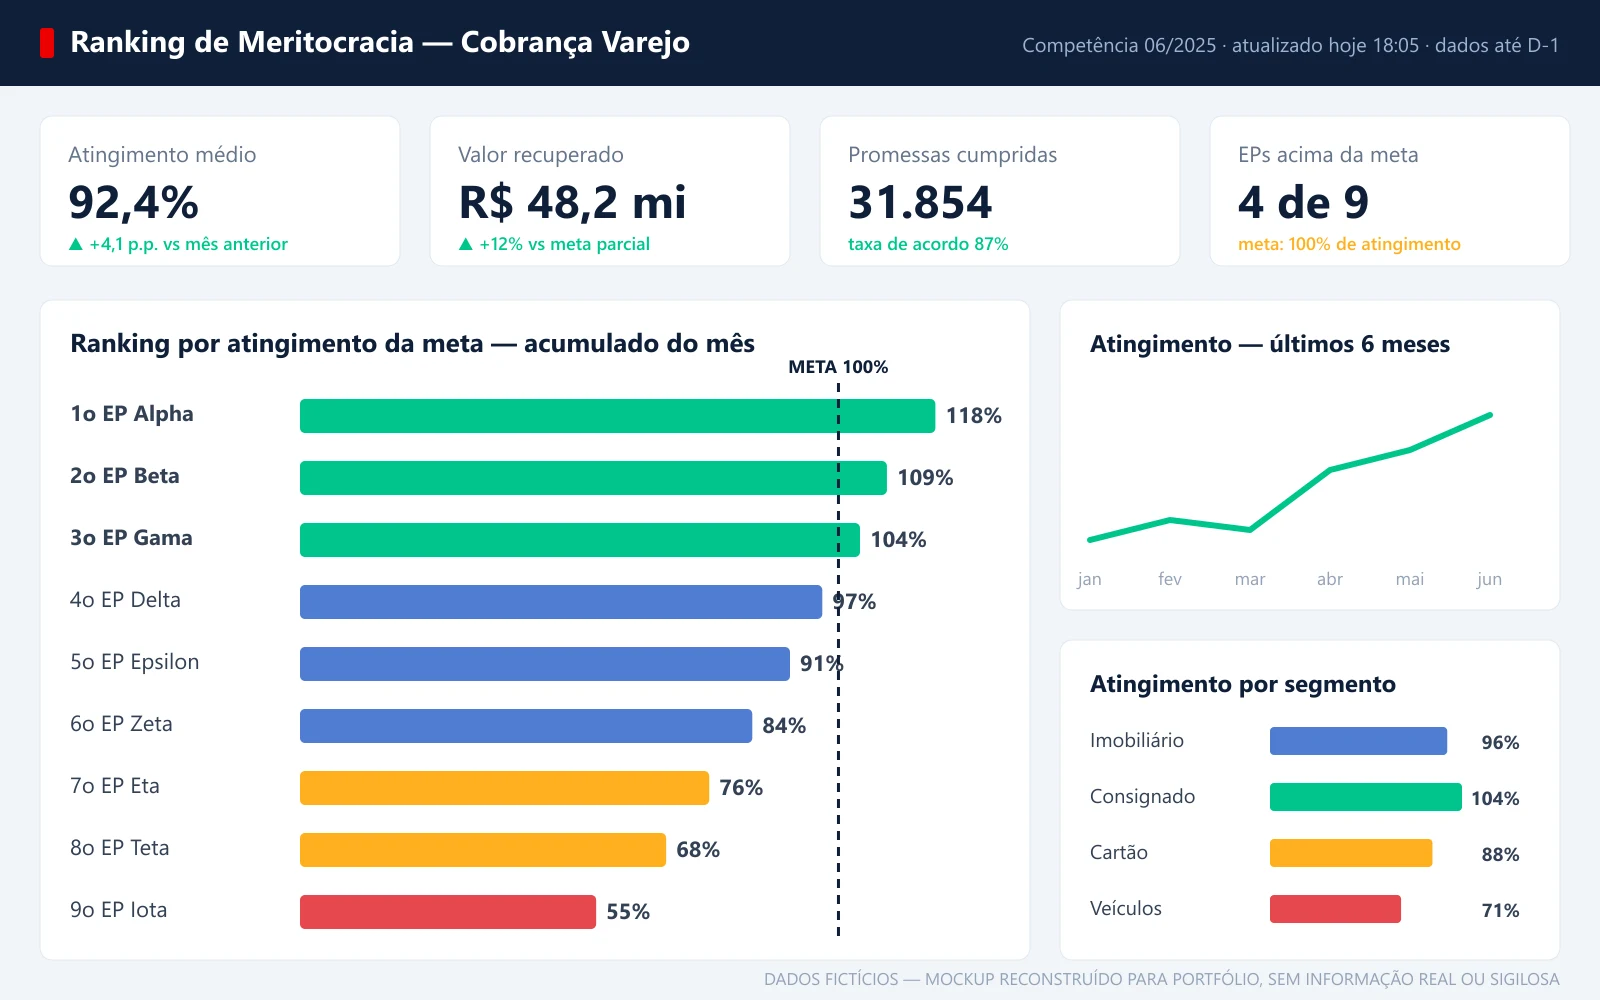
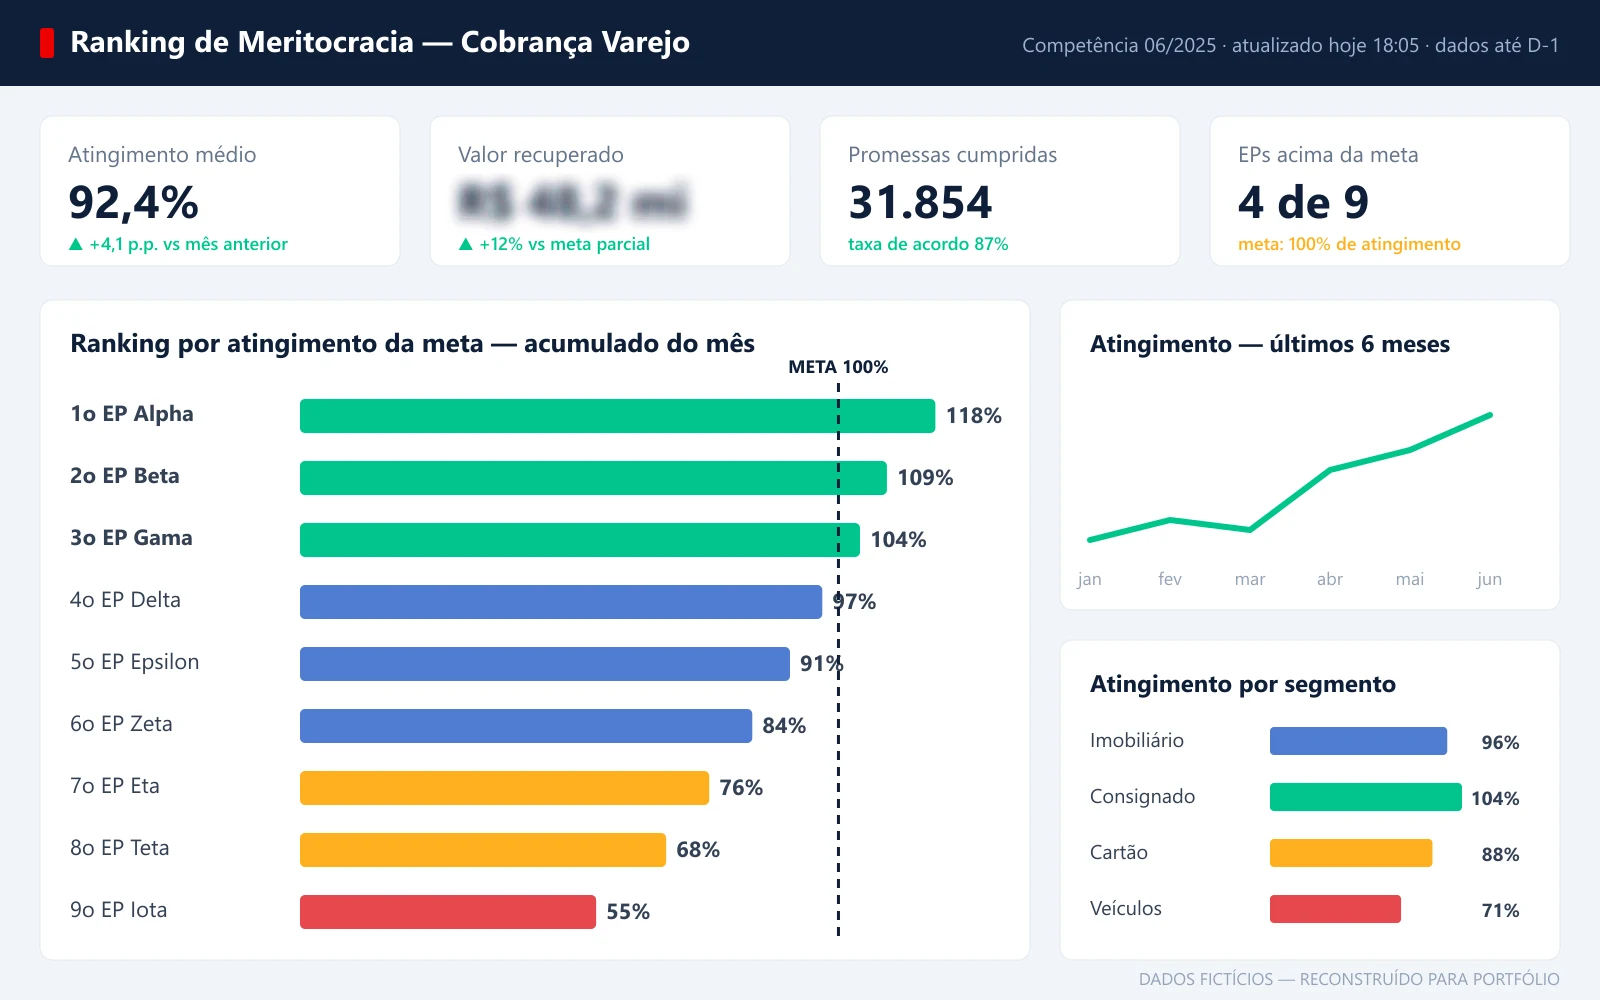
refine: blur monetary values, drop NDA mentions, fix badge layout
Monetary KPI in dashboard mockup now blurred; disclaimers keep fictitious-data
notice without citing NDA; broken pill backgrounds in before/after removed.

Generated with [Devin](https://devin.ai)

Changed region(s): [[0.2812, 0.155, 0.4375, 0.248], [0.5938, 0.961, 0.9688, 0.992], [0.4688, 0.961, 0.5625, 0.992]]

diff --git a/src/translation/languages/pt/pt.ts b/src/translation/languages/pt/pt.ts
@@ -302,7 +302,7 @@ const messages = {
         ranking_case_summary: 'Painel gerencial que define a remuneração variável de 9 empresas de cobrança. Pipeline de dados redesenhado de ponta a ponta: o que saía apenas 2x por semana, com defasagem de até 4 dias, agora é enviado todo dia útil ao final do dia, com resultados acumulados até ontem (D-1) — ciclo completo em ~30 minutos.',
         rank_overview_title: 'Visão geral',
         rank_overview_p1: 'Case do meu trabalho atual como Data Visualization Specialist na MJV, alocado em um grande banco internacional, no setor de recuperação de crédito. Projeto principal há 1 ano: o ranking de meritocracia do call center de cobrança do varejo — o painel cuja posição aumenta ou reduz diretamente a remuneração das 9 empresas parceiras de cobrança (EPs).',
-        rank_overview_p2: 'Por NDA, dados reais, regras de negócio detalhadas e visuais originais não podem ser exibidos. Todas as imagens deste case são reconstruções com dados fictícios.',
+        rank_overview_p2: 'Todos os dados exibidos neste case são fictícios — as imagens são reconstruções criadas exclusivamente para fins de portfólio.',
         rank_context_title: 'O contexto: remuneração em jogo',
         rank_context_p1: 'Na operação de recuperação de crédito do varejo, a cobrança é executada por 9 empresas parceiras. O ranking de meritocracia consolida o atingimento de metas de cada uma — e o resultado não é apenas informativo: ele aumenta ou reduz diretamente a remuneração das empresas. Um ranking atrasado ou incorreto significa cobradores trabalhando às cegas, com rotas e abordagens decididas sem dados.',
         rank_context_p2: 'Quando assumi o projeto, o processo era manual: extração em SAS via SQL, planilhas sumarizadas montadas à mão, envio apenas 2x por semana — terças e quintas, com dados defasados em até 4 dias. As EPs reclamavam com razão: sem o desempenho atualizado, era impossível recalcular abordagens a tempo de fazer diferença no mês.',
@@ -316,9 +316,9 @@ const messages = {
         rank_auto_p1: 'Desenhei sozinho uma automação com Power Automate e Microsoft Fabric, disparada por gatilho de recorrência diária: atualização do painel (~10 min), exportação automática dos PDFs (~7 min) e conferência humana antes do envio pela caixa de correio oficial, ao final do dia. O ciclo inteiro fecha em no máximo 30 minutos — e o que era tarefa manual de parte da equipe virou verificação de qualidade.',
         rank_design_title: 'Design de informação a serviço da decisão',
         rank_design_p1: 'Painel gerencial não é vitrine — é ferramenta de decisão. A hierarquia visual foi desenhada para o teste dos 30 segundos: posição no ranking, distância da meta e tendência são lidos de imediato, com segmentos e detalhes disponíveis em camadas. Conceitos e mockups passam por aprovação com stakeholders antes de qualquer implementação.',
-        rank_mockup_caption: 'Mockup reconstruído com dados 100% fictícios para este portfólio — nenhuma informação real ou sigilosa é exibida.',
+        rank_mockup_caption: 'Mockup reconstruído com dados 100% fictícios, exclusivamente para este portfólio.',
         rank_arch_caption: 'Arquitetura simplificada do pipeline — sem detalhes técnicos internos.',
-        rank_schema_caption: 'Modelo dimensional simplificado — nomes ilustrativos; a estrutura real é confidencial.',
+        rank_schema_caption: 'Representação simplificada e ilustrativa do modelo dimensional.',
         rank_beforeafter_caption: 'Comparativo do processo antes e depois da automação — valores aproximados.',
         rank_ai_title: 'Workflow aumentado por IA',
         rank_ai_p1: 'Uso Devin e GitHub Copilot no dia a dia — por decisão consciente. Delego à IA a implementação de tabelas, ajustes e visuais a partir de prompts e mockups que desenho, e concentro meu tempo no que não dá para delegar: entender o negócio, validar a lógica de apuração, revisar cada saída e construir o storytelling. Ajustes finos de DAX e modelagem seguem manuais quando a regra exige precisão.',

diff --git a/src/translation/languages/en/en.ts b/src/translation/languages/en/en.ts
@@ -303,7 +303,7 @@ const messages = {
         ranking_case_summary: 'Management dashboard that determines the variable compensation of 9 collection companies. End-to-end redesigned data pipeline: what used to ship only twice a week, lagging up to 4 days behind, is now sent every business day at end of day, with results accumulated through yesterday (D-1) — full cycle in ~30 minutes.',
         rank_overview_title: 'Overview',
         rank_overview_p1: 'A case from my current role as Data Visualization Specialist at MJV, embedded at a large international bank in the credit recovery division. Main project for the past year: the meritocracy ranking for the retail collections call center — the dashboard whose positions directly increase or decrease the compensation of the 9 partner collection companies (EPs).',
-        rank_overview_p2: 'Under NDA, real data, detailed business rules and original visuals cannot be shown. All images in this case study are reconstructions with fictitious data.',
+        rank_overview_p2: 'All data displayed in this case study is fictitious — images are reconstructions created exclusively for portfolio purposes.',
         rank_context_title: 'The context: compensation at stake',
         rank_context_p1: 'In retail credit recovery, collections are executed by 9 partner companies. The meritocracy ranking consolidates each company\'s target achievement — and the result is not merely informational: it directly increases or decreases their compensation. A delayed or incorrect ranking means collectors working blind, with routing and approach decisions made without data.',
         rank_context_p2: 'When I took over the project, the process was manual: SAS extraction via SQL, hand-assembled summarized spreadsheets, sent only twice a week — Tuesdays and Thursdays, with data lagging up to 4 days behind operations. The companies complained with good reason: without updated performance, it was impossible to recalculate collection approaches in time to make a difference in the month.',
@@ -317,9 +317,9 @@ const messages = {
         rank_auto_p1: 'I single-handedly designed an automation with Power Automate and Microsoft Fabric, triggered by a daily recurrence: dashboard refresh (~10 min), automatic PDF export (~7 min) and human review before sending through the official mailbox, at end of day. The entire cycle completes within 30 minutes at most — and what used to be manual work for part of the team became quality verification.',
         rank_design_title: 'Information design in service of decisions',
         rank_design_p1: 'A management dashboard is not a showcase — it is a decision tool. The visual hierarchy was designed for the 30-second test: ranking position, distance to target and trend are read immediately, with segments and details available in layers. Concepts and mockups go through stakeholder approval before any implementation.',
-        rank_mockup_caption: 'Mockup rebuilt with 100% fictitious data for this portfolio — no real or confidential information is displayed.',
+        rank_mockup_caption: 'Mockup rebuilt with 100% fictitious data, exclusively for this portfolio.',
         rank_arch_caption: 'Simplified pipeline architecture — no internal technical details.',
-        rank_schema_caption: 'Simplified dimensional model — illustrative names; the real structure is confidential.',
+        rank_schema_caption: 'Simplified, illustrative representation of the dimensional model.',
         rank_beforeafter_caption: 'Process comparison before and after automation — approximate values.',
         rank_ai_title: 'AI-augmented workflow',
         rank_ai_p1: 'I use Devin and GitHub Copilot daily — as a conscious decision. I delegate to AI the implementation of tables, adjustments and visuals based on prompts and mockups I design, and focus my time on what cannot be delegated: understanding the business, validating calculation logic, reviewing every output and building the storytelling. Fine DAX and modeling adjustments remain manual when rules demand precision.',
